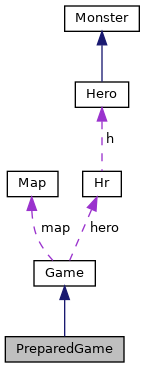
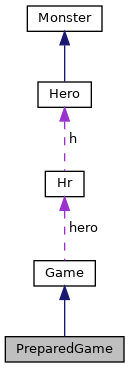
Update gh-pages to output generated at 2b1363b

Changed region(s): [[0.031, 0.0, 0.9922, 0.9864], [0.2171, 0.6576, 0.3101, 0.7772], [0.0, 0.8967, 0.062, 0.9864]]

diff --git a/Game_8h_source.html b/Game_8h_source.html
@@ -92,79 +92,80 @@ $(function() {
 <div class="line"><a name="l00023"></a><span class="lineno">   23</span>&#160; </div>
 <div class="line"><a name="l00024"></a><span class="lineno"><a class="line" href="classGame.html">   24</a></span>&#160;<span class="keyword">class </span><a class="code" href="classGame.html">Game</a></div>
 <div class="line"><a name="l00025"></a><span class="lineno">   25</span>&#160;{</div>
-<div class="line"><a name="l00026"></a><span class="lineno">   26</span>&#160;<span class="keyword">protected</span>:</div>
+<div class="line"><a name="l00026"></a><span class="lineno">   26</span>&#160;<span class="keyword">private</span>:</div>
 <div class="line"><a name="l00027"></a><span class="lineno">   27</span>&#160;    <a class="code" href="classMap.html">Map</a> map;</div>
-<div class="line"><a name="l00028"></a><span class="lineno">   28</span>&#160;    std::list&lt;Mstr&gt; monsters;</div>
-<div class="line"><a name="l00029"></a><span class="lineno">   29</span>&#160;    <a class="code" href="structHr.html">Hr</a> hero;</div>
-<div class="line"><a name="l00030"></a><span class="lineno">   30</span>&#160;    <span class="keywordtype">bool</span> hasUnits; </div>
-<div class="line"><a name="l00031"></a><span class="lineno">   31</span>&#160;    <span class="keywordtype">bool</span> hasMap;</div>
-<div class="line"><a name="l00032"></a><span class="lineno">   32</span>&#160;    <span class="keywordtype">bool</span> running;</div>
-<div class="line"><a name="l00033"></a><span class="lineno">   33</span>&#160;<span class="keyword">public</span>:</div>
-<div class="line"><a name="l00034"></a><span class="lineno">   34</span>&#160;    <span class="keywordtype">void</span> setMap(<a class="code" href="classMap.html">Map</a> NewMap); </div>
-<div class="line"><a name="l00035"></a><span class="lineno">   35</span>&#160;    <span class="keywordtype">void</span> <a class="code" href="classGame.html#a59432db9fcfce098c2613cfa06173e39">printMap</a>(); </div>
-<div class="line"><a name="l00036"></a><span class="lineno">   36</span>&#160;    <span class="keywordtype">void</span> <a class="code" href="classGame.html#a2c9bbc80ff60480af1bbdf06cd3380a7">putHero</a>(<a class="code" href="classHero.html">Hero</a> hero, <span class="keywordtype">int</span> x, <span class="keywordtype">int</span> y); </div>
-<div class="line"><a name="l00037"></a><span class="lineno">   37</span>&#160;    <span class="keywordtype">void</span> <a class="code" href="classGame.html#a75bb0eba85d893780125e414fe00087f">moveHero</a>(<span class="keyword">const</span> std::string &amp;direction); </div>
-<div class="line"><a name="l00038"></a><span class="lineno">   38</span>&#160;    <span class="keywordtype">void</span> <a class="code" href="classGame.html#a5fc59a7c9f21b26c9b6502217dc5aa5d">putMonster</a>(<a class="code" href="classMonster.html">Monster</a> monster, <span class="keywordtype">int</span> x, <span class="keywordtype">int</span> y); </div>
-<div class="line"><a name="l00039"></a><span class="lineno"><a class="line" href="classGame.html#ad59df6562a58a614fda24622d3715b65">   39</a></span>&#160;    <a class="code" href="classGame.html#ad59df6562a58a614fda24622d3715b65">Game</a>() : map(<a class="code" href="classMarkedMap.html">MarkedMap</a>()), hasUnits(false), hasMap(false), running(false), hero() {};</div>
-<div class="line"><a name="l00040"></a><span class="lineno">   40</span>&#160;    <a class="code" href="classGame.html#ad59df6562a58a614fda24622d3715b65">Game</a>(std::string mapfilename) : map(<a class="code" href="classMarkedMap.html">MarkedMap</a>(mapfilename)), hasUnits(false), hasMap(true), running(false), hero() {};</div>
-<div class="line"><a name="l00041"></a><span class="lineno">   41</span>&#160;    <span class="keywordtype">void</span> run(); </div>
-<div class="line"><a name="l00042"></a><span class="lineno"><a class="line" href="classGame_1_1InvalidMove.html">   42</a></span>&#160;    <span class="keyword">class </span><a class="code" href="classGame_1_1InvalidMove.html">InvalidMove</a> : <span class="keyword">public</span> std::runtime_error</div>
-<div class="line"><a name="l00043"></a><span class="lineno">   43</span>&#160;    {</div>
-<div class="line"><a name="l00044"></a><span class="lineno">   44</span>&#160;    <span class="keyword">public</span>:</div>
-<div class="line"><a name="l00045"></a><span class="lineno">   45</span>&#160;        <a class="code" href="classGame_1_1InvalidMove.html">InvalidMove</a>(<span class="keyword">const</span> std::string&amp; msg) : std::runtime_error(msg) {}</div>
-<div class="line"><a name="l00046"></a><span class="lineno">   46</span>&#160;    };</div>
-<div class="line"><a name="l00047"></a><span class="lineno"><a class="line" href="classGame_1_1NotInitializedException.html">   47</a></span>&#160;    <span class="keyword">class </span><a class="code" href="classGame_1_1NotInitializedException.html">NotInitializedException</a> : <span class="keyword">public</span> std::runtime_error</div>
-<div class="line"><a name="l00048"></a><span class="lineno">   48</span>&#160;    {</div>
-<div class="line"><a name="l00049"></a><span class="lineno">   49</span>&#160;    <span class="keyword">public</span>:</div>
-<div class="line"><a name="l00050"></a><span class="lineno">   50</span>&#160;        <a class="code" href="classGame_1_1NotInitializedException.html">NotInitializedException</a>(<span class="keyword">const</span> std::string&amp; msg) : std::runtime_error(msg) {}</div>
-<div class="line"><a name="l00051"></a><span class="lineno">   51</span>&#160;    };</div>
-<div class="line"><a name="l00052"></a><span class="lineno"><a class="line" href="classGame_1_1AlreadyHasHeroException.html">   52</a></span>&#160;    <span class="keyword">class </span><a class="code" href="classGame_1_1AlreadyHasHeroException.html">AlreadyHasHeroException</a> : <span class="keyword">public</span> std::runtime_error</div>
-<div class="line"><a name="l00053"></a><span class="lineno">   53</span>&#160;    {</div>
-<div class="line"><a name="l00054"></a><span class="lineno">   54</span>&#160;    <span class="keyword">public</span>:</div>
-<div class="line"><a name="l00055"></a><span class="lineno">   55</span>&#160;        <a class="code" href="classGame_1_1AlreadyHasHeroException.html">AlreadyHasHeroException</a>(<span class="keyword">const</span> std::string&amp; msg) : std::runtime_error(msg) {}</div>
-<div class="line"><a name="l00056"></a><span class="lineno">   56</span>&#160;    };</div>
-<div class="line"><a name="l00057"></a><span class="lineno"><a class="line" href="classGame_1_1AlreadyHasUnitsException.html">   57</a></span>&#160;    <span class="keyword">class </span><a class="code" href="classGame_1_1AlreadyHasUnitsException.html">AlreadyHasUnitsException</a> : <span class="keyword">public</span> std::runtime_error</div>
-<div class="line"><a name="l00058"></a><span class="lineno">   58</span>&#160;    {</div>
-<div class="line"><a name="l00059"></a><span class="lineno">   59</span>&#160;    <span class="keyword">public</span>:</div>
-<div class="line"><a name="l00060"></a><span class="lineno">   60</span>&#160;        <a class="code" href="classGame_1_1AlreadyHasUnitsException.html">AlreadyHasUnitsException</a>(<span class="keyword">const</span> std::string &amp;msg) : std::runtime_error(msg) {}</div>
-<div class="line"><a name="l00061"></a><span class="lineno">   61</span>&#160;    };</div>
-<div class="line"><a name="l00062"></a><span class="lineno">   62</span>&#160; </div>
-<div class="line"><a name="l00063"></a><span class="lineno"><a class="line" href="classGame_1_1OccupiedException.html">   63</a></span>&#160;    <span class="keyword">class </span><a class="code" href="classGame_1_1OccupiedException.html">OccupiedException</a> : <span class="keyword">public</span> std::runtime_error</div>
-<div class="line"><a name="l00064"></a><span class="lineno">   64</span>&#160;    {</div>
-<div class="line"><a name="l00065"></a><span class="lineno">   65</span>&#160;    <span class="keyword">public</span>:</div>
-<div class="line"><a name="l00066"></a><span class="lineno">   66</span>&#160;        <a class="code" href="classGame_1_1OccupiedException.html">OccupiedException</a>(<span class="keyword">const</span> std::string&amp; errMsg) : std::runtime_error(errMsg) {}</div>
-<div class="line"><a name="l00067"></a><span class="lineno">   67</span>&#160;    };</div>
-<div class="line"><a name="l00068"></a><span class="lineno"><a class="line" href="classGame_1_1GameAlreadyStartedException.html">   68</a></span>&#160;    <span class="keyword">class </span><a class="code" href="classGame_1_1GameAlreadyStartedException.html">GameAlreadyStartedException</a> : <span class="keyword">public</span> std::runtime_error</div>
-<div class="line"><a name="l00069"></a><span class="lineno">   69</span>&#160;    {</div>
-<div class="line"><a name="l00070"></a><span class="lineno">   70</span>&#160;    <span class="keyword">public</span>:</div>
-<div class="line"><a name="l00071"></a><span class="lineno">   71</span>&#160;        <a class="code" href="classGame_1_1GameAlreadyStartedException.html">GameAlreadyStartedException</a>(<span class="keyword">const</span> std::string&amp; errMsg) : std::runtime_error(errMsg) {}</div>
-<div class="line"><a name="l00072"></a><span class="lineno">   72</span>&#160;    };</div>
-<div class="line"><a name="l00073"></a><span class="lineno">   73</span>&#160;};</div>
-<div class="line"><a name="l00074"></a><span class="lineno">   74</span>&#160; </div>
-<div class="line"><a name="l00075"></a><span class="lineno"><a class="line" href="classPreparedGame.html">   75</a></span>&#160;<span class="keyword">class </span><a class="code" href="classPreparedGame.html">PreparedGame</a> : <span class="keyword">public</span> <a class="code" href="classGame.html">Game</a>{</div>
-<div class="line"><a name="l00076"></a><span class="lineno">   76</span>&#160;<span class="keyword">private</span>:</div>
-<div class="line"><a name="l00077"></a><span class="lineno">   77</span>&#160;    <a class="code" href="classMarkedMap.html">MarkedMap</a> map;</div>
-<div class="line"><a name="l00078"></a><span class="lineno">   78</span>&#160;<span class="keyword">public</span>:</div>
-<div class="line"><a name="l00079"></a><span class="lineno">   79</span>&#160;    <a class="code" href="classPreparedGame.html">PreparedGame</a>(std::string filename);</div>
-<div class="line"><a name="l00080"></a><span class="lineno">   80</span>&#160;    <span class="keyword">using</span> Game::run;</div>
-<div class="line"><a name="l00081"></a><span class="lineno">   81</span>&#160;};</div>
+<div class="line"><a name="l00028"></a><span class="lineno">   28</span>&#160;<span class="keyword">protected</span>:</div>
+<div class="line"><a name="l00029"></a><span class="lineno">   29</span>&#160;    std::list&lt;Mstr&gt; monsters;</div>
+<div class="line"><a name="l00030"></a><span class="lineno">   30</span>&#160;    <a class="code" href="structHr.html">Hr</a> hero;</div>
+<div class="line"><a name="l00031"></a><span class="lineno">   31</span>&#160;    <span class="keywordtype">bool</span> hasUnits; </div>
+<div class="line"><a name="l00032"></a><span class="lineno">   32</span>&#160;    <span class="keywordtype">bool</span> hasMap;</div>
+<div class="line"><a name="l00033"></a><span class="lineno">   33</span>&#160;    <span class="keywordtype">bool</span> running;</div>
+<div class="line"><a name="l00034"></a><span class="lineno">   34</span>&#160;<span class="keyword">public</span>:</div>
+<div class="line"><a name="l00035"></a><span class="lineno">   35</span>&#160;    <span class="keywordtype">void</span> setMap(<a class="code" href="classMap.html">Map</a> NewMap); </div>
+<div class="line"><a name="l00036"></a><span class="lineno">   36</span>&#160;    <span class="keywordtype">void</span> <a class="code" href="classGame.html#a59432db9fcfce098c2613cfa06173e39">printMap</a>(); </div>
+<div class="line"><a name="l00037"></a><span class="lineno">   37</span>&#160;    <span class="keywordtype">void</span> <a class="code" href="classGame.html#a2c9bbc80ff60480af1bbdf06cd3380a7">putHero</a>(<a class="code" href="classHero.html">Hero</a> hero, <span class="keywordtype">int</span> x, <span class="keywordtype">int</span> y); </div>
+<div class="line"><a name="l00038"></a><span class="lineno">   38</span>&#160;    <span class="keywordtype">void</span> <a class="code" href="classGame.html#a75bb0eba85d893780125e414fe00087f">moveHero</a>(<span class="keyword">const</span> std::string &amp;direction); </div>
+<div class="line"><a name="l00039"></a><span class="lineno">   39</span>&#160;    <span class="keywordtype">void</span> <a class="code" href="classGame.html#a5fc59a7c9f21b26c9b6502217dc5aa5d">putMonster</a>(<a class="code" href="classMonster.html">Monster</a> monster, <span class="keywordtype">int</span> x, <span class="keywordtype">int</span> y); </div>
+<div class="line"><a name="l00040"></a><span class="lineno"><a class="line" href="classGame.html#ad59df6562a58a614fda24622d3715b65">   40</a></span>&#160;    <a class="code" href="classGame.html#ad59df6562a58a614fda24622d3715b65">Game</a>() : map(<a class="code" href="classMarkedMap.html">MarkedMap</a>()), hasUnits(false), hasMap(false), running(false), hero() {};</div>
+<div class="line"><a name="l00041"></a><span class="lineno">   41</span>&#160;    <a class="code" href="classGame.html#ad59df6562a58a614fda24622d3715b65">Game</a>(std::string mapfilename) : map(<a class="code" href="classMarkedMap.html">MarkedMap</a>(mapfilename)), hasUnits(false), hasMap(true), running(false), hero() {};</div>
+<div class="line"><a name="l00042"></a><span class="lineno">   42</span>&#160;    <span class="keywordtype">void</span> run(); </div>
+<div class="line"><a name="l00043"></a><span class="lineno"><a class="line" href="classGame_1_1InvalidMove.html">   43</a></span>&#160;    <span class="keyword">class </span><a class="code" href="classGame_1_1InvalidMove.html">InvalidMove</a> : <span class="keyword">public</span> std::runtime_error</div>
+<div class="line"><a name="l00044"></a><span class="lineno">   44</span>&#160;    {</div>
+<div class="line"><a name="l00045"></a><span class="lineno">   45</span>&#160;    <span class="keyword">public</span>:</div>
+<div class="line"><a name="l00046"></a><span class="lineno">   46</span>&#160;        <a class="code" href="classGame_1_1InvalidMove.html">InvalidMove</a>(<span class="keyword">const</span> std::string&amp; msg) : std::runtime_error(msg) {}</div>
+<div class="line"><a name="l00047"></a><span class="lineno">   47</span>&#160;    };</div>
+<div class="line"><a name="l00048"></a><span class="lineno"><a class="line" href="classGame_1_1NotInitializedException.html">   48</a></span>&#160;    <span class="keyword">class </span><a class="code" href="classGame_1_1NotInitializedException.html">NotInitializedException</a> : <span class="keyword">public</span> std::runtime_error</div>
+<div class="line"><a name="l00049"></a><span class="lineno">   49</span>&#160;    {</div>
+<div class="line"><a name="l00050"></a><span class="lineno">   50</span>&#160;    <span class="keyword">public</span>:</div>
+<div class="line"><a name="l00051"></a><span class="lineno">   51</span>&#160;        <a class="code" href="classGame_1_1NotInitializedException.html">NotInitializedException</a>(<span class="keyword">const</span> std::string&amp; msg) : std::runtime_error(msg) {}</div>
+<div class="line"><a name="l00052"></a><span class="lineno">   52</span>&#160;    };</div>
+<div class="line"><a name="l00053"></a><span class="lineno"><a class="line" href="classGame_1_1AlreadyHasHeroException.html">   53</a></span>&#160;    <span class="keyword">class </span><a class="code" href="classGame_1_1AlreadyHasHeroException.html">AlreadyHasHeroException</a> : <span class="keyword">public</span> std::runtime_error</div>
+<div class="line"><a name="l00054"></a><span class="lineno">   54</span>&#160;    {</div>
+<div class="line"><a name="l00055"></a><span class="lineno">   55</span>&#160;    <span class="keyword">public</span>:</div>
+<div class="line"><a name="l00056"></a><span class="lineno">   56</span>&#160;        <a class="code" href="classGame_1_1AlreadyHasHeroException.html">AlreadyHasHeroException</a>(<span class="keyword">const</span> std::string&amp; msg) : std::runtime_error(msg) {}</div>
+<div class="line"><a name="l00057"></a><span class="lineno">   57</span>&#160;    };</div>
+<div class="line"><a name="l00058"></a><span class="lineno"><a class="line" href="classGame_1_1AlreadyHasUnitsException.html">   58</a></span>&#160;    <span class="keyword">class </span><a class="code" href="classGame_1_1AlreadyHasUnitsException.html">AlreadyHasUnitsException</a> : <span class="keyword">public</span> std::runtime_error</div>
+<div class="line"><a name="l00059"></a><span class="lineno">   59</span>&#160;    {</div>
+<div class="line"><a name="l00060"></a><span class="lineno">   60</span>&#160;    <span class="keyword">public</span>:</div>
+<div class="line"><a name="l00061"></a><span class="lineno">   61</span>&#160;        <a class="code" href="classGame_1_1AlreadyHasUnitsException.html">AlreadyHasUnitsException</a>(<span class="keyword">const</span> std::string &amp;msg) : std::runtime_error(msg) {}</div>
+<div class="line"><a name="l00062"></a><span class="lineno">   62</span>&#160;    };</div>
+<div class="line"><a name="l00063"></a><span class="lineno">   63</span>&#160; </div>
+<div class="line"><a name="l00064"></a><span class="lineno"><a class="line" href="classGame_1_1OccupiedException.html">   64</a></span>&#160;    <span class="keyword">class </span><a class="code" href="classGame_1_1OccupiedException.html">OccupiedException</a> : <span class="keyword">public</span> std::runtime_error</div>
+<div class="line"><a name="l00065"></a><span class="lineno">   65</span>&#160;    {</div>
+<div class="line"><a name="l00066"></a><span class="lineno">   66</span>&#160;    <span class="keyword">public</span>:</div>
+<div class="line"><a name="l00067"></a><span class="lineno">   67</span>&#160;        <a class="code" href="classGame_1_1OccupiedException.html">OccupiedException</a>(<span class="keyword">const</span> std::string&amp; errMsg) : std::runtime_error(errMsg) {}</div>
+<div class="line"><a name="l00068"></a><span class="lineno">   68</span>&#160;    };</div>
+<div class="line"><a name="l00069"></a><span class="lineno"><a class="line" href="classGame_1_1GameAlreadyStartedException.html">   69</a></span>&#160;    <span class="keyword">class </span><a class="code" href="classGame_1_1GameAlreadyStartedException.html">GameAlreadyStartedException</a> : <span class="keyword">public</span> std::runtime_error</div>
+<div class="line"><a name="l00070"></a><span class="lineno">   70</span>&#160;    {</div>
+<div class="line"><a name="l00071"></a><span class="lineno">   71</span>&#160;    <span class="keyword">public</span>:</div>
+<div class="line"><a name="l00072"></a><span class="lineno">   72</span>&#160;        <a class="code" href="classGame_1_1GameAlreadyStartedException.html">GameAlreadyStartedException</a>(<span class="keyword">const</span> std::string&amp; errMsg) : std::runtime_error(errMsg) {}</div>
+<div class="line"><a name="l00073"></a><span class="lineno">   73</span>&#160;    };</div>
+<div class="line"><a name="l00074"></a><span class="lineno">   74</span>&#160;};</div>
+<div class="line"><a name="l00075"></a><span class="lineno">   75</span>&#160; </div>
+<div class="line"><a name="l00076"></a><span class="lineno"><a class="line" href="classPreparedGame.html">   76</a></span>&#160;<span class="keyword">class </span><a class="code" href="classPreparedGame.html">PreparedGame</a> : <span class="keyword">public</span> <a class="code" href="classGame.html">Game</a>{</div>
+<div class="line"><a name="l00077"></a><span class="lineno">   77</span>&#160;<span class="keyword">private</span>:</div>
+<div class="line"><a name="l00078"></a><span class="lineno">   78</span>&#160;    <a class="code" href="classMarkedMap.html">MarkedMap</a> map;</div>
+<div class="line"><a name="l00079"></a><span class="lineno">   79</span>&#160;<span class="keyword">public</span>:</div>
+<div class="line"><a name="l00080"></a><span class="lineno">   80</span>&#160;    <a class="code" href="classPreparedGame.html">PreparedGame</a>(std::string filename);</div>
+<div class="line"><a name="l00081"></a><span class="lineno">   81</span>&#160;    <span class="keyword">using</span> Game::run;</div>
+<div class="line"><a name="l00082"></a><span class="lineno">   82</span>&#160;};</div>
 </div><!-- fragment --></div><!-- contents -->
 <div class="ttc" id="aclassGame_html_a75bb0eba85d893780125e414fe00087f"><div class="ttname"><a href="classGame.html#a75bb0eba85d893780125e414fe00087f">Game::moveHero</a></div><div class="ttdeci">void moveHero(const std::string &amp;direction)</div><div class="ttdoc">Put hero.</div><div class="ttdef"><b>Definition:</b> Game.cpp:73</div></div>
-<div class="ttc" id="aclassGame_1_1AlreadyHasHeroException_html"><div class="ttname"><a href="classGame_1_1AlreadyHasHeroException.html">Game::AlreadyHasHeroException</a></div><div class="ttdef"><b>Definition:</b> Game.h:52</div></div>
+<div class="ttc" id="aclassGame_1_1AlreadyHasHeroException_html"><div class="ttname"><a href="classGame_1_1AlreadyHasHeroException.html">Game::AlreadyHasHeroException</a></div><div class="ttdef"><b>Definition:</b> Game.h:53</div></div>
 <div class="ttc" id="astructMstr_html"><div class="ttname"><a href="structMstr.html">Mstr</a></div><div class="ttdef"><b>Definition:</b> Game.h:9</div></div>
-<div class="ttc" id="aclassGame_1_1InvalidMove_html"><div class="ttname"><a href="classGame_1_1InvalidMove.html">Game::InvalidMove</a></div><div class="ttdoc">Game run (start)</div><div class="ttdef"><b>Definition:</b> Game.h:42</div></div>
-<div class="ttc" id="aclassGame_html_ad59df6562a58a614fda24622d3715b65"><div class="ttname"><a href="classGame.html#ad59df6562a58a614fda24622d3715b65">Game::Game</a></div><div class="ttdeci">Game()</div><div class="ttdoc">Put hero.</div><div class="ttdef"><b>Definition:</b> Game.h:39</div></div>
+<div class="ttc" id="aclassGame_1_1InvalidMove_html"><div class="ttname"><a href="classGame_1_1InvalidMove.html">Game::InvalidMove</a></div><div class="ttdoc">Game run (start)</div><div class="ttdef"><b>Definition:</b> Game.h:43</div></div>
+<div class="ttc" id="aclassGame_html_ad59df6562a58a614fda24622d3715b65"><div class="ttname"><a href="classGame.html#ad59df6562a58a614fda24622d3715b65">Game::Game</a></div><div class="ttdeci">Game()</div><div class="ttdoc">Put hero.</div><div class="ttdef"><b>Definition:</b> Game.h:40</div></div>
 <div class="ttc" id="aclassGame_html_a2c9bbc80ff60480af1bbdf06cd3380a7"><div class="ttname"><a href="classGame.html#a2c9bbc80ff60480af1bbdf06cd3380a7">Game::putHero</a></div><div class="ttdeci">void putHero(Hero hero, int x, int y)</div><div class="ttdoc">Print the map.</div><div class="ttdef"><b>Definition:</b> Game.cpp:25</div></div>
 <div class="ttc" id="aclassHero_html"><div class="ttname"><a href="classHero.html">Hero</a></div><div class="ttdoc">Hero class.</div><div class="ttdef"><b>Definition:</b> Hero.h:20</div></div>
-<div class="ttc" id="aclassGame_1_1GameAlreadyStartedException_html"><div class="ttname"><a href="classGame_1_1GameAlreadyStartedException.html">Game::GameAlreadyStartedException</a></div><div class="ttdef"><b>Definition:</b> Game.h:68</div></div>
+<div class="ttc" id="aclassGame_1_1GameAlreadyStartedException_html"><div class="ttname"><a href="classGame_1_1GameAlreadyStartedException.html">Game::GameAlreadyStartedException</a></div><div class="ttdef"><b>Definition:</b> Game.h:69</div></div>
 <div class="ttc" id="astructHr_html"><div class="ttname"><a href="structHr.html">Hr</a></div><div class="ttdef"><b>Definition:</b> Game.h:16</div></div>
-<div class="ttc" id="aclassGame_1_1OccupiedException_html"><div class="ttname"><a href="classGame_1_1OccupiedException.html">Game::OccupiedException</a></div><div class="ttdef"><b>Definition:</b> Game.h:63</div></div>
-<div class="ttc" id="aclassGame_1_1AlreadyHasUnitsException_html"><div class="ttname"><a href="classGame_1_1AlreadyHasUnitsException.html">Game::AlreadyHasUnitsException</a></div><div class="ttdef"><b>Definition:</b> Game.h:57</div></div>
-<div class="ttc" id="aclassGame_1_1NotInitializedException_html"><div class="ttname"><a href="classGame_1_1NotInitializedException.html">Game::NotInitializedException</a></div><div class="ttdef"><b>Definition:</b> Game.h:47</div></div>
+<div class="ttc" id="aclassGame_1_1OccupiedException_html"><div class="ttname"><a href="classGame_1_1OccupiedException.html">Game::OccupiedException</a></div><div class="ttdef"><b>Definition:</b> Game.h:64</div></div>
+<div class="ttc" id="aclassGame_1_1AlreadyHasUnitsException_html"><div class="ttname"><a href="classGame_1_1AlreadyHasUnitsException.html">Game::AlreadyHasUnitsException</a></div><div class="ttdef"><b>Definition:</b> Game.h:58</div></div>
+<div class="ttc" id="aclassGame_1_1NotInitializedException_html"><div class="ttname"><a href="classGame_1_1NotInitializedException.html">Game::NotInitializedException</a></div><div class="ttdef"><b>Definition:</b> Game.h:48</div></div>
 <div class="ttc" id="aclassMonster_html"><div class="ttname"><a href="classMonster.html">Monster</a></div><div class="ttdoc">Monster class.</div><div class="ttdef"><b>Definition:</b> Monster.h:16</div></div>
 <div class="ttc" id="aclassMarkedMap_html"><div class="ttname"><a href="classMarkedMap.html">MarkedMap</a></div><div class="ttdef"><b>Definition:</b> Map.h:41</div></div>
 <div class="ttc" id="aclassGame_html_a5fc59a7c9f21b26c9b6502217dc5aa5d"><div class="ttname"><a href="classGame.html#a5fc59a7c9f21b26c9b6502217dc5aa5d">Game::putMonster</a></div><div class="ttdeci">void putMonster(Monster monster, int x, int y)</div><div class="ttdoc">Moving the hero.</div><div class="ttdef"><b>Definition:</b> Game.cpp:54</div></div>
-<div class="ttc" id="aclassPreparedGame_html"><div class="ttname"><a href="classPreparedGame.html">PreparedGame</a></div><div class="ttdef"><b>Definition:</b> Game.h:75</div></div>
+<div class="ttc" id="aclassPreparedGame_html"><div class="ttname"><a href="classPreparedGame.html">PreparedGame</a></div><div class="ttdef"><b>Definition:</b> Game.h:76</div></div>
 <div class="ttc" id="aclassMap_html"><div class="ttname"><a href="classMap.html">Map</a></div><div class="ttdef"><b>Definition:</b> Map.h:5</div></div>
 <div class="ttc" id="aclassGame_html_a59432db9fcfce098c2613cfa06173e39"><div class="ttname"><a href="classGame.html#a59432db9fcfce098c2613cfa06173e39">Game::printMap</a></div><div class="ttdeci">void printMap()</div><div class="ttdoc">Set the map.</div><div class="ttdef"><b>Definition:</b> Game.cpp:179</div></div>
 <div class="ttc" id="aclassGame_html"><div class="ttname"><a href="classGame.html">Game</a></div><div class="ttdef"><b>Definition:</b> Game.h:24</div></div>

diff --git a/classGame-members.html b/classGame-members.html
@@ -75,15 +75,14 @@ $(function() {
   <tr bgcolor="#f0f0f0" class="even"><td class="entry"><b>hasMap</b> (defined in <a class="el" href="classGame.html">Game</a>)</td><td class="entry"><a class="el" href="classGame.html">Game</a></td><td class="entry"><span class="mlabel">protected</span></td></tr>
   <tr bgcolor="#f0f0f0"><td class="entry"><b>hasUnits</b> (defined in <a class="el" href="classGame.html">Game</a>)</td><td class="entry"><a class="el" href="classGame.html">Game</a></td><td class="entry"><span class="mlabel">protected</span></td></tr>
   <tr bgcolor="#f0f0f0" class="even"><td class="entry"><b>hero</b> (defined in <a class="el" href="classGame.html">Game</a>)</td><td class="entry"><a class="el" href="classGame.html">Game</a></td><td class="entry"><span class="mlabel">protected</span></td></tr>
-  <tr bgcolor="#f0f0f0"><td class="entry"><b>map</b> (defined in <a class="el" href="classGame.html">Game</a>)</td><td class="entry"><a class="el" href="classGame.html">Game</a></td><td class="entry"><span class="mlabel">protected</span></td></tr>
-  <tr bgcolor="#f0f0f0" class="even"><td class="entry"><b>monsters</b> (defined in <a class="el" href="classGame.html">Game</a>)</td><td class="entry"><a class="el" href="classGame.html">Game</a></td><td class="entry"><span class="mlabel">protected</span></td></tr>
-  <tr><td class="entry"><a class="el" href="classGame.html#a75bb0eba85d893780125e414fe00087f">moveHero</a>(const std::string &amp;direction)</td><td class="entry"><a class="el" href="classGame.html">Game</a></td><td class="entry"></td></tr>
-  <tr class="even"><td class="entry"><a class="el" href="classGame.html#a59432db9fcfce098c2613cfa06173e39">printMap</a>()</td><td class="entry"><a class="el" href="classGame.html">Game</a></td><td class="entry"></td></tr>
-  <tr><td class="entry"><a class="el" href="classGame.html#a2c9bbc80ff60480af1bbdf06cd3380a7">putHero</a>(Hero hero, int x, int y)</td><td class="entry"><a class="el" href="classGame.html">Game</a></td><td class="entry"></td></tr>
-  <tr class="even"><td class="entry"><a class="el" href="classGame.html#a5fc59a7c9f21b26c9b6502217dc5aa5d">putMonster</a>(Monster monster, int x, int y)</td><td class="entry"><a class="el" href="classGame.html">Game</a></td><td class="entry"></td></tr>
-  <tr bgcolor="#f0f0f0"><td class="entry"><b>run</b>() (defined in <a class="el" href="classGame.html">Game</a>)</td><td class="entry"><a class="el" href="classGame.html">Game</a></td><td class="entry"></td></tr>
-  <tr bgcolor="#f0f0f0" class="even"><td class="entry"><b>running</b> (defined in <a class="el" href="classGame.html">Game</a>)</td><td class="entry"><a class="el" href="classGame.html">Game</a></td><td class="entry"><span class="mlabel">protected</span></td></tr>
-  <tr bgcolor="#f0f0f0"><td class="entry"><b>setMap</b>(Map NewMap) (defined in <a class="el" href="classGame.html">Game</a>)</td><td class="entry"><a class="el" href="classGame.html">Game</a></td><td class="entry"></td></tr>
+  <tr bgcolor="#f0f0f0"><td class="entry"><b>monsters</b> (defined in <a class="el" href="classGame.html">Game</a>)</td><td class="entry"><a class="el" href="classGame.html">Game</a></td><td class="entry"><span class="mlabel">protected</span></td></tr>
+  <tr class="even"><td class="entry"><a class="el" href="classGame.html#a75bb0eba85d893780125e414fe00087f">moveHero</a>(const std::string &amp;direction)</td><td class="entry"><a class="el" href="classGame.html">Game</a></td><td class="entry"></td></tr>
+  <tr><td class="entry"><a class="el" href="classGame.html#a59432db9fcfce098c2613cfa06173e39">printMap</a>()</td><td class="entry"><a class="el" href="classGame.html">Game</a></td><td class="entry"></td></tr>
+  <tr class="even"><td class="entry"><a class="el" href="classGame.html#a2c9bbc80ff60480af1bbdf06cd3380a7">putHero</a>(Hero hero, int x, int y)</td><td class="entry"><a class="el" href="classGame.html">Game</a></td><td class="entry"></td></tr>
+  <tr><td class="entry"><a class="el" href="classGame.html#a5fc59a7c9f21b26c9b6502217dc5aa5d">putMonster</a>(Monster monster, int x, int y)</td><td class="entry"><a class="el" href="classGame.html">Game</a></td><td class="entry"></td></tr>
+  <tr bgcolor="#f0f0f0" class="even"><td class="entry"><b>run</b>() (defined in <a class="el" href="classGame.html">Game</a>)</td><td class="entry"><a class="el" href="classGame.html">Game</a></td><td class="entry"></td></tr>
+  <tr bgcolor="#f0f0f0"><td class="entry"><b>running</b> (defined in <a class="el" href="classGame.html">Game</a>)</td><td class="entry"><a class="el" href="classGame.html">Game</a></td><td class="entry"><span class="mlabel">protected</span></td></tr>
+  <tr bgcolor="#f0f0f0" class="even"><td class="entry"><b>setMap</b>(Map NewMap) (defined in <a class="el" href="classGame.html">Game</a>)</td><td class="entry"><a class="el" href="classGame.html">Game</a></td><td class="entry"></td></tr>
 </table></div><!-- contents -->
 <!-- start footer part -->
 <hr class="footer"/><address class="footer"><small>

diff --git a/classPreparedGame.html b/classPreparedGame.html
@@ -86,10 +86,9 @@ Collaboration diagram for PreparedGame:</div>
 <map name="PreparedGame_coll__map" id="PreparedGame_coll__map">
 <area shape="rect" title=" " alt="" coords="5,336,124,363"/>
 <area shape="rect" href="classGame.html" title=" " alt="" coords="34,260,95,287"/>
-<area shape="rect" href="classMap.html" title=" " alt="" coords="7,171,58,197"/>
-<area shape="rect" href="structHr.html" title=" " alt="" coords="83,171,121,197"/>
-<area shape="rect" href="classHero.html" title="Hero class." alt="" coords="75,81,129,108"/>
-<area shape="rect" href="classMonster.html" title="Monster class." alt="" coords="65,5,139,32"/>
+<area shape="rect" href="structHr.html" title=" " alt="" coords="45,171,84,197"/>
+<area shape="rect" href="classHero.html" title="Hero class." alt="" coords="38,81,91,108"/>
+<area shape="rect" href="classMonster.html" title="Monster class." alt="" coords="27,5,102,32"/>
 </map>
 <center><span class="legend">[<a href="graph_legend.html">legend</a>]</span></center></div>
 <table class="memberdecls">
@@ -135,9 +134,6 @@ void&#160;</td><td class="memItemRight" valign="bottom"><b>run</b> ()</td></tr>
 <tr class="heading"><td colspan="2"><h2 class="groupheader"><a name="inherited"></a>
 Additional Inherited Members</h2></td></tr>
 <tr class="inherit_header pro_attribs_classGame"><td colspan="2" onclick="javascript:toggleInherit('pro_attribs_classGame')"><img src="closed.png" alt="-"/>&#160;Protected Attributes inherited from <a class="el" href="classGame.html">Game</a></td></tr>
-<tr class="memitem:ab910de42d0cf4238d9d20815de472523 inherit pro_attribs_classGame"><td class="memItemLeft" align="right" valign="top"><a id="ab910de42d0cf4238d9d20815de472523"></a>
-<a class="el" href="classMap.html">Map</a>&#160;</td><td class="memItemRight" valign="bottom"><b>map</b></td></tr>
-<tr class="separator:ab910de42d0cf4238d9d20815de472523 inherit pro_attribs_classGame"><td class="memSeparator" colspan="2">&#160;</td></tr>
 <tr class="memitem:aac8617b9d6d156f40ac93a49635f3fbf inherit pro_attribs_classGame"><td class="memItemLeft" align="right" valign="top"><a id="aac8617b9d6d156f40ac93a49635f3fbf"></a>
 std::list&lt; <a class="el" href="structMstr.html">Mstr</a> &gt;&#160;</td><td class="memItemRight" valign="bottom"><b>monsters</b></td></tr>
 <tr class="separator:aac8617b9d6d156f40ac93a49635f3fbf inherit pro_attribs_classGame"><td class="memSeparator" colspan="2">&#160;</td></tr>

diff --git a/classGame.html b/classGame.html
@@ -86,11 +86,10 @@ Collaboration diagram for Game:</div>
 <div class="dyncontent">
 <div class="center"><img src="classGame__coll__graph.png" border="0" usemap="#Game_coll__map" alt="Collaboration graph"/></div>
 <map name="Game_coll__map" id="Game_coll__map">
-<area shape="rect" title=" " alt="" coords="32,260,93,287"/>
-<area shape="rect" href="classMap.html" title=" " alt="" coords="5,171,56,197"/>
-<area shape="rect" href="structHr.html" title=" " alt="" coords="81,171,119,197"/>
-<area shape="rect" href="classHero.html" title="Hero class." alt="" coords="73,81,127,108"/>
-<area shape="rect" href="classMonster.html" title="Monster class." alt="" coords="63,5,137,32"/>
+<area shape="rect" title=" " alt="" coords="12,260,73,287"/>
+<area shape="rect" href="structHr.html" title=" " alt="" coords="23,171,62,197"/>
+<area shape="rect" href="classHero.html" title="Hero class." alt="" coords="16,81,69,108"/>
+<area shape="rect" href="classMonster.html" title="Monster class." alt="" coords="5,5,80,32"/>
 </map>
 <center><span class="legend">[<a href="graph_legend.html">legend</a>]</span></center></div>
 <table class="memberdecls">
@@ -144,9 +143,6 @@ void&#160;</td><td class="memItemRight" valign="bottom"><b>run</b> ()</td></tr>
 </table><table class="memberdecls">
 <tr class="heading"><td colspan="2"><h2 class="groupheader"><a name="pro-attribs"></a>
 Protected Attributes</h2></td></tr>
-<tr class="memitem:ab910de42d0cf4238d9d20815de472523"><td class="memItemLeft" align="right" valign="top"><a id="ab910de42d0cf4238d9d20815de472523"></a>
-<a class="el" href="classMap.html">Map</a>&#160;</td><td class="memItemRight" valign="bottom"><b>map</b></td></tr>
-<tr class="separator:ab910de42d0cf4238d9d20815de472523"><td class="memSeparator" colspan="2">&#160;</td></tr>
 <tr class="memitem:aac8617b9d6d156f40ac93a49635f3fbf"><td class="memItemLeft" align="right" valign="top"><a id="aac8617b9d6d156f40ac93a49635f3fbf"></a>
 std::list&lt; <a class="el" href="structMstr.html">Mstr</a> &gt;&#160;</td><td class="memItemRight" valign="bottom"><b>monsters</b></td></tr>
 <tr class="separator:aac8617b9d6d156f40ac93a49635f3fbf"><td class="memSeparator" colspan="2">&#160;</td></tr>
